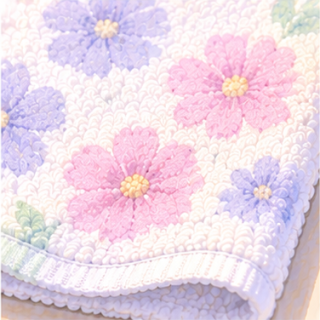
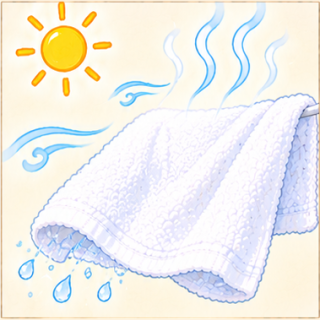
11/7-6: ステージ11の語を2つ入れ替え（速乾・ブランド）とその絵、決定の記録。?v=85

diff --git a/versions/20261106/data/words.js b/versions/20261106/data/words.js
@@ -1,4 +1,4 @@
-// 120語のデータ（1ステージ10語 × 12ステージ）。元: docs/ことば120語_第2案_投入用_1105.csv（11/5 に tools/csv2words.mjs で入れ替え。前の120語は残していない）
+// 120語のデータ（1ステージ10語 × 12ステージ）。元: docs/ことば120語_第2案_投入用_1107.csv（11/5 に tools/csv2words.mjs で入れ替え。前の120語は残していない）
 //
 // ■ 問題・選択肢・正解・一言メモ・お題の問い・ふわりのセリフは、すべてこのファイルの各語句の行だけに持つ（10/3-13）
 //   js/game.js や js/quiz.js には、問題や選択肢の文章を書かない。
@@ -158,8 +158,8 @@ window.WORDS = [
   {"id": 105, "stage": 11, "word": "抗菌防臭", "kana": "こうきんぼうしゅう", "question": "イヤなにおいのもとになる菌をおさえる加工を何という？", "choices": ["抗菌防臭", "吸水速乾"], "answer": 0, "memo": "「こうきんぼうしゅう」。部活のタオルの強い味方", "role": "zako", "hp": 1, "sayCorrect": "", "sayWrong": "", "order": 5, "pattern": "normal", "lane": 0.5, "odaiQuestion": "", "kanaParts": []},
   {"id": 106, "stage": 11, "word": "泉州タオル", "kana": "せんしゅうたおる", "question": "「水とともに生きる」「こだわりタオル」を展開する、大阪の産地のブランドは？", "choices": ["泉州タオル", "今治タオル"], "answer": 0, "memo": "織ってから洗って白くする「後晒し」のタオルが得意。吸水がよく、ふんわり", "role": "zako", "hp": 1, "sayCorrect": "", "sayWrong": "", "order": 6, "pattern": "normal", "lane": 0.5, "odaiQuestion": "", "kanaParts": []},
   {"id": 107, "stage": 11, "word": "刺繍", "kana": "ししゅう", "question": "糸で縫って、名前や絵を入れることを何という？", "choices": ["刺繍", "プリント"], "answer": 0, "memo": "「ししゅう」。名入れギフトの定番", "role": "mid", "hp": 3, "sayCorrect": "", "sayWrong": "", "order": 7, "pattern": "normal", "lane": 0.5, "odaiQuestion": "", "kanaParts": ["し", "しゅう"]},
-  {"id": 108, "stage": 11, "word": "おぼろタオル", "kana": "おぼろたおる", "question": "三重県にある、明治からつづく老舗のタオル会社は？", "choices": ["おぼろタオル", "ホットマン"], "answer": 0, "memo": "1908年創業。パイルの糸だけを染めて、ぼんやりした柄を出す「おぼろ染め」が名前のもと", "role": "zako", "hp": 1, "sayCorrect": "", "sayWrong": "", "order": 8, "pattern": "normal", "lane": 0.5, "odaiQuestion": "", "kanaParts": []},
-  {"id": 109, "stage": 11, "word": "ホットマン", "kana": "ほっとまん", "question": "東京・青梅にある、「1秒タオル」で知られるタオル会社は？", "choices": ["ホットマン", "おぼろタオル"], "answer": 0, "memo": "水に1秒でしずむほどの吸水が自慢。糸から仕上げまで自社でつくる", "role": "zako", "hp": 1, "sayCorrect": "", "sayWrong": "", "order": 9, "pattern": "normal", "lane": 0.5, "odaiQuestion": "", "kanaParts": []},
+  {"id": 108, "stage": 11, "word": "速乾", "kana": "そっかん", "question": "はやく乾くようにした性質を何という？", "choices": ["速乾", "保温"], "answer": 0, "memo": "「そっかん」。薄く織る、細い化学繊維をまぜる、などで作る。乾きやすいタオルはにおいにくい", "role": "zako", "hp": 1, "sayCorrect": "", "sayWrong": "", "order": 8, "pattern": "normal", "lane": 0.5, "odaiQuestion": "", "kanaParts": []},
+  {"id": 109, "stage": 11, "word": "ブランド", "kana": "ぶらんど", "question": "産地や会社が「このタオルは品質を約束します」と名前をつけたものを何という？", "choices": ["ブランド", "ラベル"], "answer": 0, "memo": "今治タオル、泉州タオルも産地のブランド。マークがついている", "role": "zako", "hp": 1, "sayCorrect": "", "sayWrong": "", "order": 9, "pattern": "normal", "lane": 0.5, "odaiQuestion": "", "kanaParts": []},
   {"id": 110, "stage": 11, "word": "今治タオル", "kana": "いまばりたおる", "question": "吸水テストなどの基準に合格したタオルだけが名乗れる、愛媛の産地のブランドは？", "choices": ["今治タオル", "泉州タオル"], "answer": 0, "memo": "白と青と赤のマーク。産地の名前が品質の約束になっている", "role": "boss", "hp": 12, "sayCorrect": "", "sayWrong": "", "order": 10, "pattern": "normal", "lane": 0.5, "odaiQuestion": "", "kanaParts": ["いま", "ばり", "た", "お", "る"]},
   // ---- ステージ12 ----
   {"id": 111, "stage": 12, "word": "洗濯表示", "kana": "せんたくひょうじ", "question": "洗い方やアイロンのかけ方を教えてくれる、タグのマークを何という？", "choices": ["洗濯表示", "値札"], "answer": 0, "memo": "ネームについている。おけ・三角・四角・アイロンの絵", "role": "zako", "hp": 1, "sayCorrect": "", "sayWrong": "", "order": 1, "pattern": "normal", "lane": 0.5, "odaiQuestion": "", "kanaParts": []},

diff --git a/versions/20261106/js/cards.js b/versions/20261106/js/cards.js
@@ -26,7 +26,7 @@ const Cards = (() => {
   const GLUE = new Set(["を", "は", "が", "に", "の", "と", "で", "へ", "も", "や", "よ", "ね", "て", "た", "か", "な", "、", "。", "!", "！", "?", "？", ")", "）", "」"]);   // 「」の閉じかっこも前につける（10/25-14）
   const esc = t => t.replace(/[&<>"]/g, c => ({ "&": "&amp;", "<": "&lt;", ">": "&gt;", '"': "&quot;" }[c]));
   // カードの絵（11/6-6）: 絵があるステージ（stages）だけ、持っているカードの上に出す。絵は tools/cardsplit.mjs で切り分けた assets/cards/s<ステージ>_<順>.png（1辺 320px。表示の2倍）
-  const CARD_ART = { dir: "assets/cards/", stages: [1, 2, 3, 4, 5, 6, 7, 8, 9, 10, 11, 12], v: "1107" };   // v ＝ 絵を差し替えたら変える（前の絵がブラウザに残らないように）。11/7-5 で120枚そろった。絵が読めなかったときは onerror で「絵がないカード」の表示にもどる（保険として残す）
+  const CARD_ART = { dir: "assets/cards/", stages: [1, 2, 3, 4, 5, 6, 7, 8, 9, 10, 11, 12], v: "1107-6" };   // v ＝ 絵を差し替えたら変える（前の絵がブラウザに残らないように）。11/7-5 で120枚そろった。絵が読めなかったときは onerror で「絵がないカード」の表示にもどる（保険として残す）
   function artEl(w) {
     if (!CARD_ART.stages.includes(w.stage) || !w.order) return null;
     const im = document.createElement("img"); im.className = "pic"; im.alt = ""; im.decoding = "async"; im.loading = "lazy";   // 図鑑は1度に40枚。見える所から読む

diff --git a/versions/20261106/index.html b/versions/20261106/index.html
@@ -12,7 +12,7 @@
   <link rel="preconnect" href="https://fonts.googleapis.com">
   <link rel="preconnect" href="https://fonts.gstatic.com" crossorigin>
   <link rel="stylesheet" href="https://fonts.googleapis.com/css2?family=Zen+Maru+Gothic:wght@500;700&display=swap">
-  <link rel="stylesheet" href="css/style.css?v=84">
+  <link rel="stylesheet" href="css/style.css?v=85">
 </head>
 <body>
   <div id="app">
@@ -279,14 +279,14 @@
   <!-- 横向きのとき -->
   <div id="rotate"><div><div class="rotate-icon"></div><p>縦にしてね</p></div></div>
 
-  <script src="data/words.js?v=84"></script>
-  <script src="data/stages.js?v=84"></script>
-  <script src="data/texts.js?v=84"></script>
-  <script src="js/audio.js?v=84"></script>
-  <script src="js/game.js?v=84"></script>
-  <script src="js/quiz.js?v=84"></script>
-  <script src="js/cards.js?v=84"></script>
-  <script src="js/recipebook.js?v=84"></script>
-  <script src="js/main.js?v=84"></script>
+  <script src="data/words.js?v=85"></script>
+  <script src="data/stages.js?v=85"></script>
+  <script src="data/texts.js?v=85"></script>
+  <script src="js/audio.js?v=85"></script>
+  <script src="js/game.js?v=85"></script>
+  <script src="js/quiz.js?v=85"></script>
+  <script src="js/cards.js?v=85"></script>
+  <script src="js/recipebook.js?v=85"></script>
+  <script src="js/main.js?v=85"></script>
 </body>
 </html>

diff --git a/docs/変更の記録.md b/docs/変更の記録.md
@@ -480,3 +480,4 @@
 - ステージ3〜12のカードの絵を入れる。元データは docs/カード絵/ の s03.png〜s12.png。並びはどれもCSVの「順」どおり。対象は versions/20261106/ だけ。（11/7-5追加）
 - 切り分け後は assets/cards/s03_01〜s12_10。やり方は s01・s02 と同じ。（11/7-5追加）
 - これで120枚そろうので「絵がないカードの表示」は不要になるが、作りは残しておく（絵が読めなかったときの保険）。（11/7-5追加）
+- ステージ11の語を2つ入れ替える。「おぼろタオル」→「速乾」、「ホットマン」→「ブランド」。中身は docs/ことば120語_第2案_投入用_1107.csv のとおり（変わるのはステージ11の順8・9の2行だけ。役・順はそのまま）。カードの絵は、新しい docs/カード絵/s11.png で切り直す。対象は versions/20261106/ だけ。（11/7-6追加）
